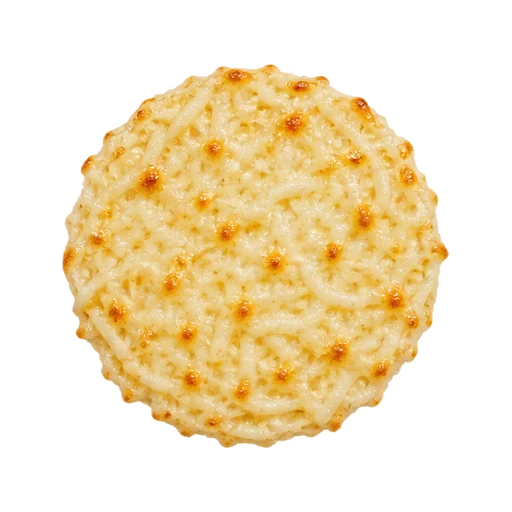
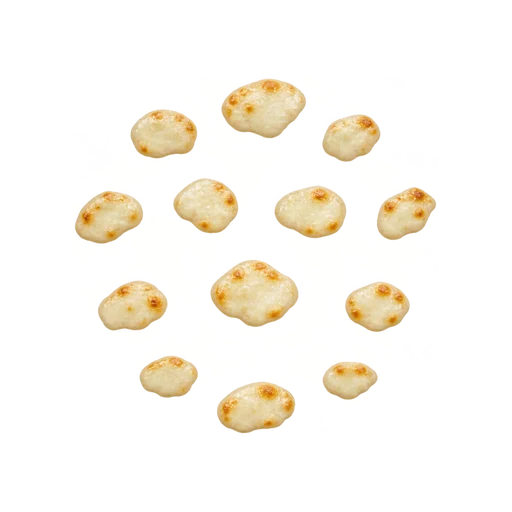
Add teriyaki sauce and spaced mozzarella patches

diff --git a/Activities/pizza-qr-prototype/index.html b/Activities/pizza-qr-prototype/index.html
@@ -8,7 +8,7 @@
   <script defer src="vendor/jsQR.js"></script>
   <script defer src="catalog.js?v=2"></script>
   <script defer src="scanner.js?v=2"></script>
-  <script defer src="app.js?v=2"></script>
+  <script defer src="app.js?v=3"></script>
 </head>
 <body>
   <header class="page-header">
@@ -25,12 +25,13 @@
           <legend>ソースを選ぶ</legend>
           <label><input type="radio" name="sauce" value="tomato"> トマト</label>
           <label><input type="radio" name="sauce" value="white"> ホワイト</label>
+          <label><input type="radio" name="sauce" value="teriyaki"> てりやき</label>
         </fieldset>
         <button id="cheese" type="button" aria-pressed="false">チーズをのせる</button>
       </div>
       <div id="pizza" role="group" aria-label="ピザ">
         <img id="base" src="assets/base-tomato.webp" alt="" draggable="false">
-        <img id="cheese-layer" src="assets/cheese.webp" alt="" draggable="false" hidden>
+        <img id="cheese-layer" src="assets/cheese.webp?v=3" alt="" draggable="false" hidden>
         <button type="button" id="placement" aria-label="選んだ具材をピザにのせる"></button>
         <div id="toppings"></div>
       </div>

diff --git a/Activities/pizza-qr-prototype/app.js b/Activities/pizza-qr-prototype/app.js
@@ -9,6 +9,7 @@ const status = byId('status');
 const storageKey = 'dekiru-pizza-v2';
 const previousKey = 'dekiru-pizza-pepper-v1';
 const blank = () => ({ sauce: 'tomato', cheese: false, pieces: [] });
+const sauces = ['tomato', 'white', 'teriyaki'];
 const knownIngredient = id => ingredients.some(ingredient => ingredient.id === id);
 const knownShop = id => shops.some(shop => shop.id === id);
 const onPizza = (x, y) => Number.isFinite(x) && Number.isFinite(y) && Math.hypot(x - 50, y - 50) <= 39;
@@ -18,7 +19,7 @@ function loadPizza() {
     const saved = JSON.parse(localStorage.getItem(storageKey));
     if (saved && Array.isArray(saved.pieces)) {
       return {
-        sauce: saved.sauce === 'white' ? 'white' : 'tomato',
+        sauce: sauces.includes(saved.sauce) ? saved.sauce : 'tomato',
         cheese: saved.cheese === true,
         pieces: saved.pieces.filter(piece => piece && typeof piece.id === 'string'
           && knownIngredient(piece.ingredient) && (piece.shop === null || knownShop(piece.shop))
